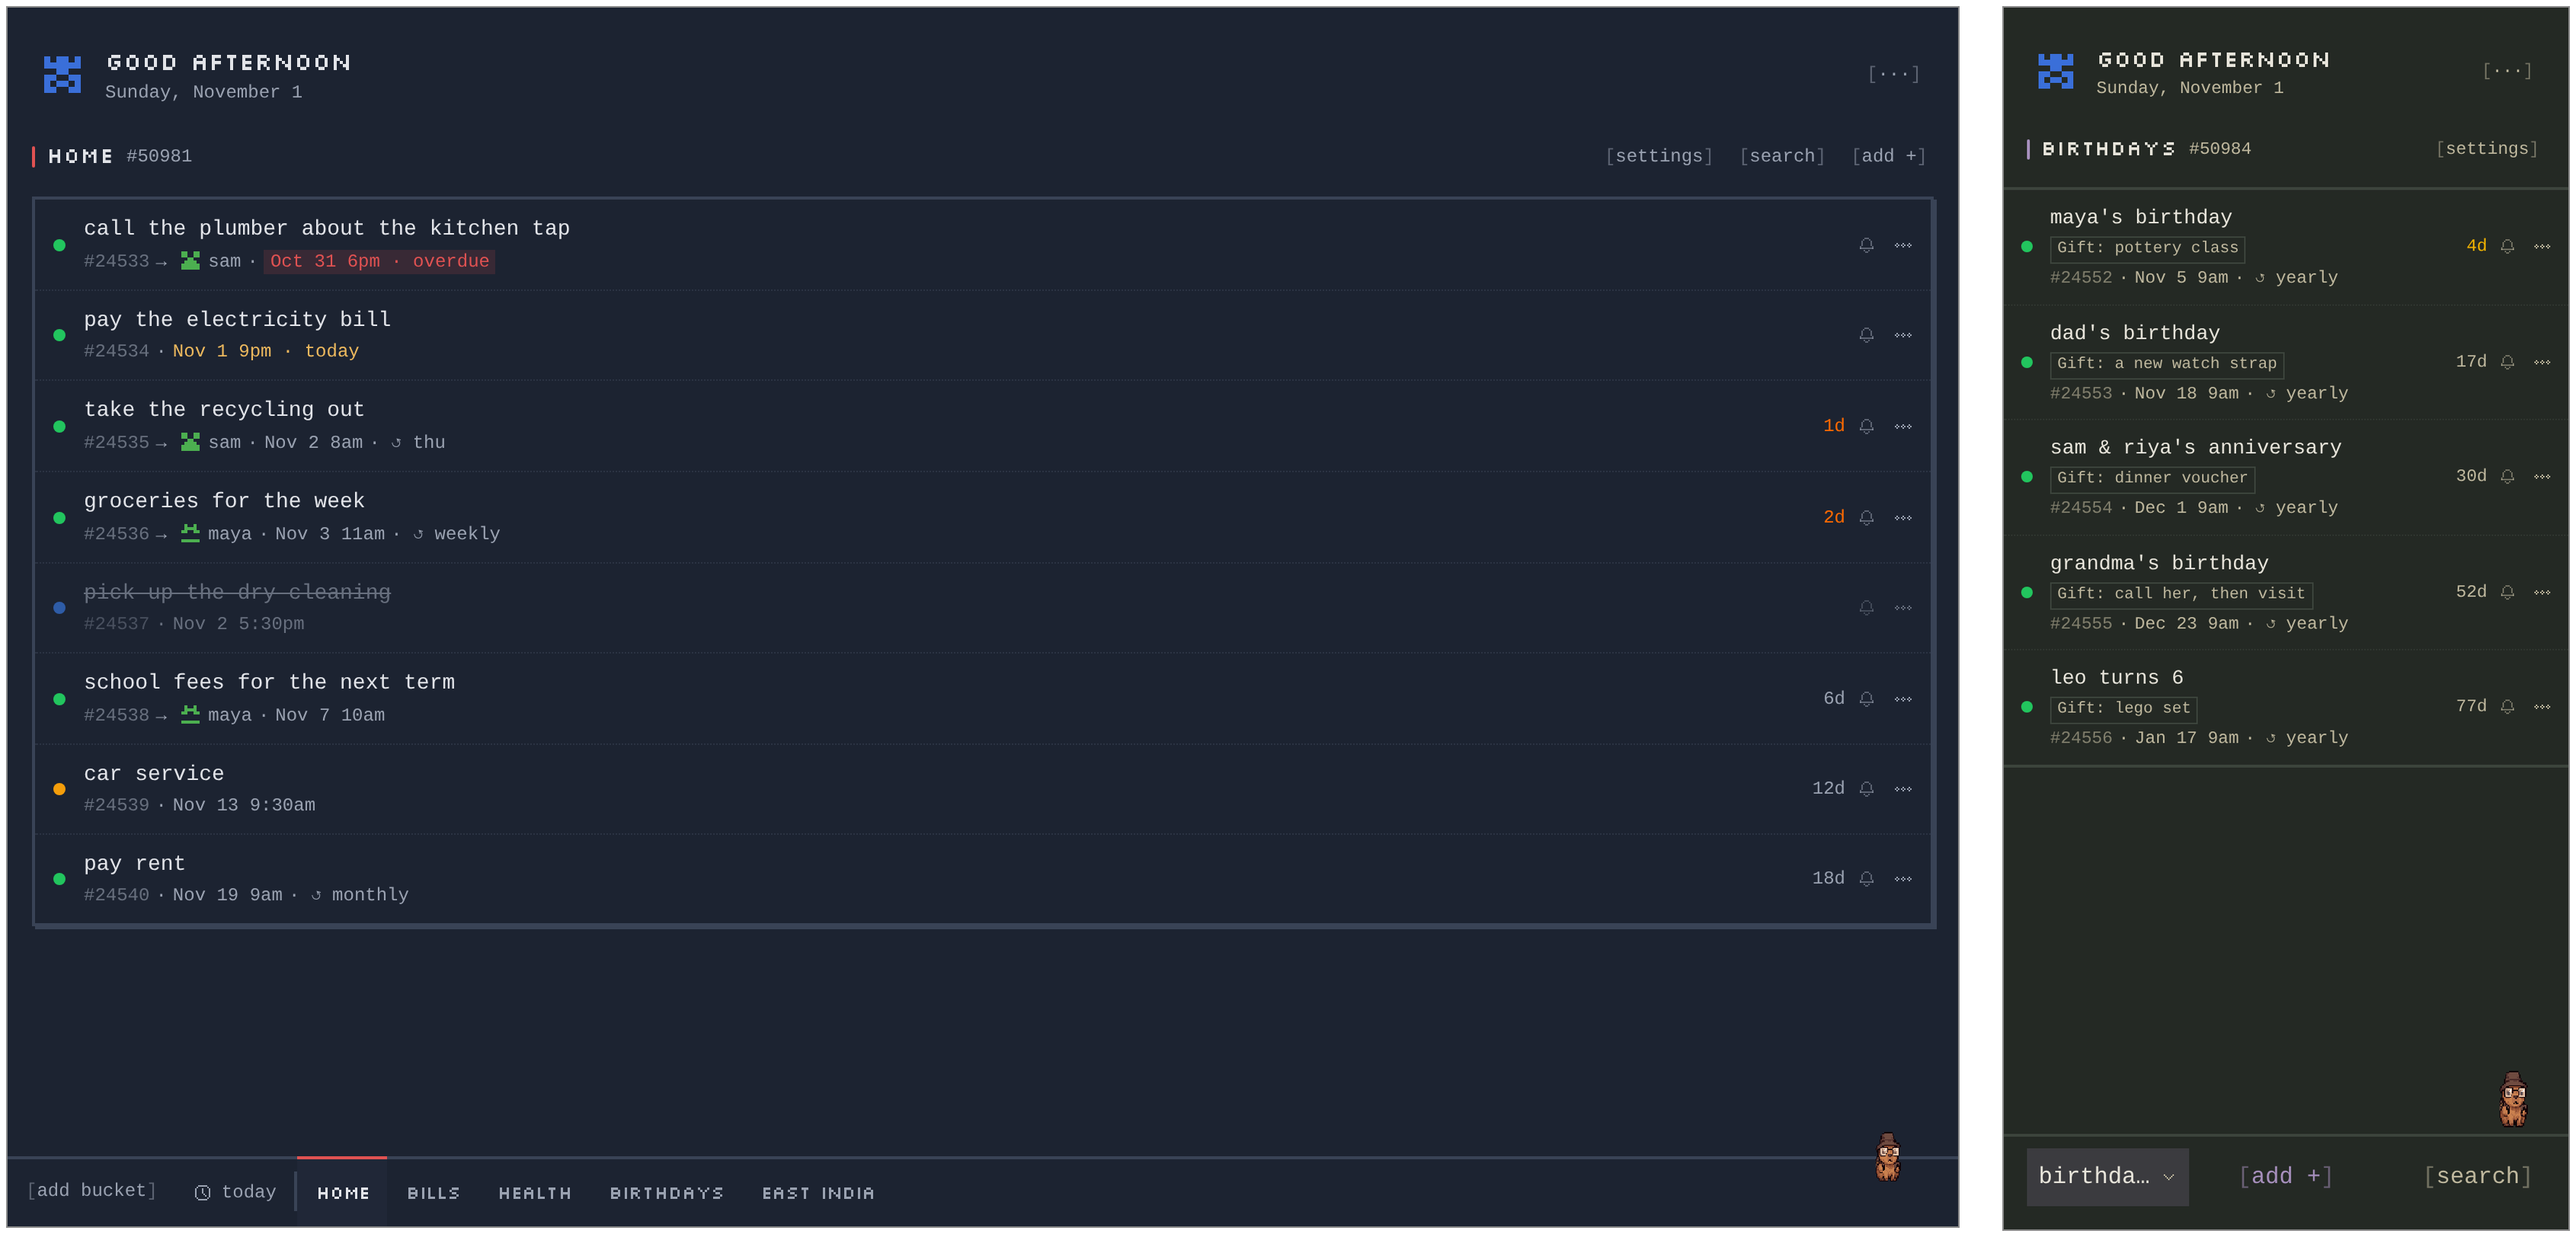
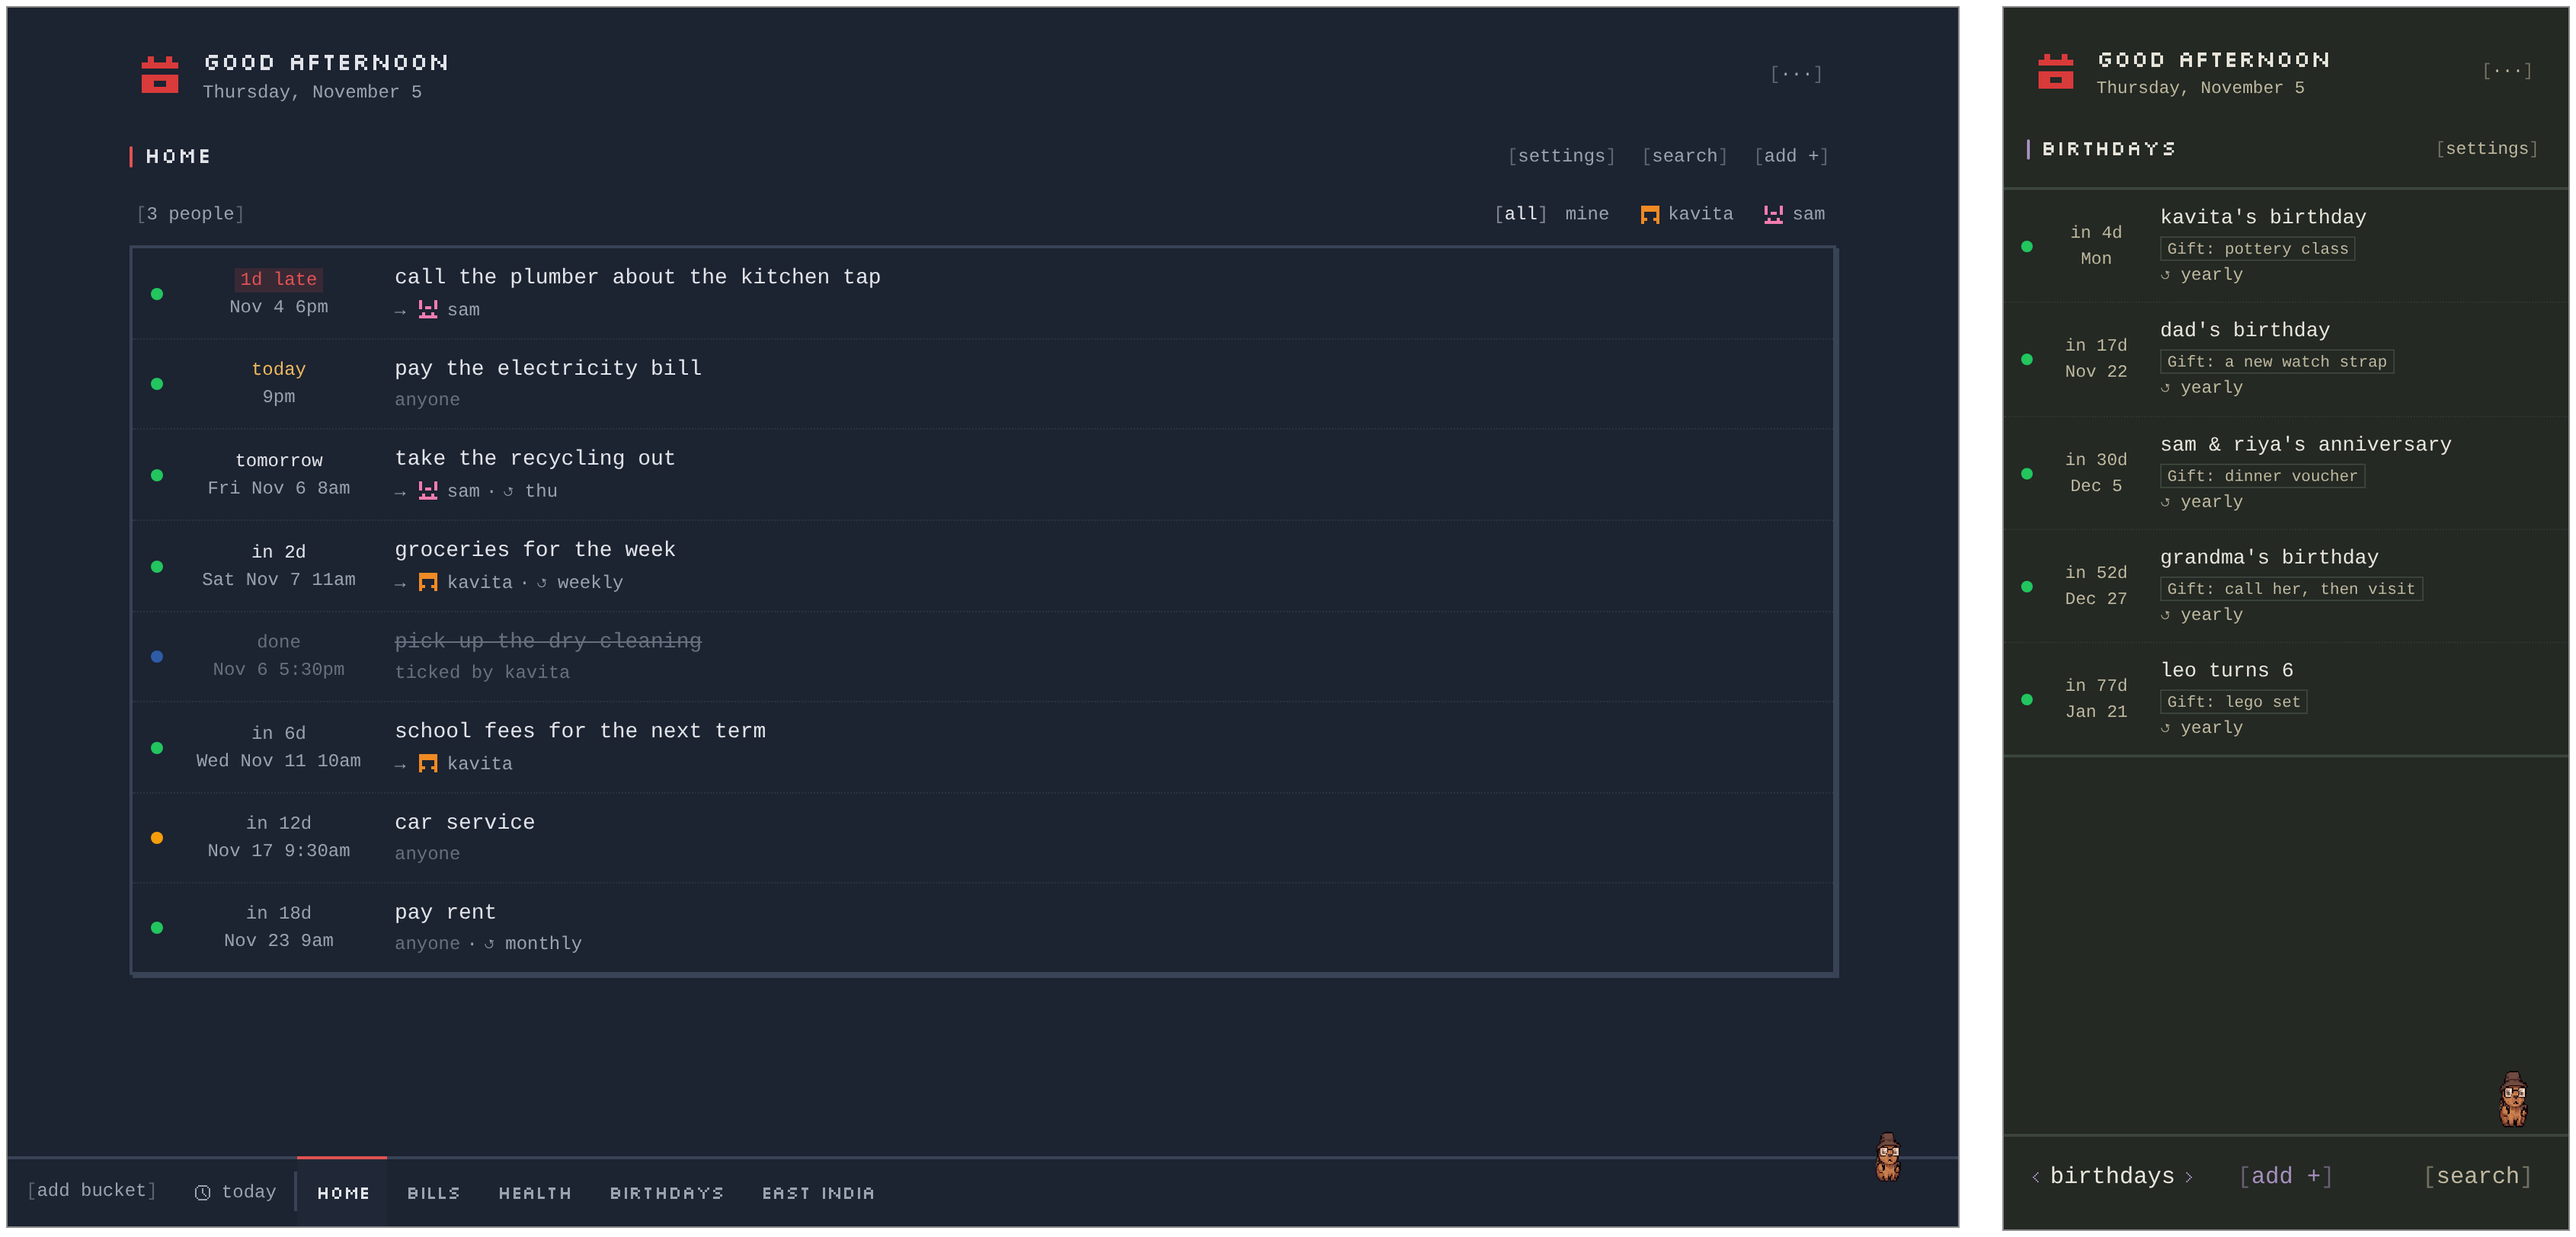
chore: readme gif and screenshots for 0.9.0

diff --git a/src/components/buckets/BucketsShell.tsx b/src/components/buckets/BucketsShell.tsx
@@ -1,6 +1,7 @@
 "use client";
 
-import { ChevronDown } from "pixelarticons/react/ChevronDown.js";
+import { ChevronLeft } from "pixelarticons/react/ChevronLeft.js";
+import { ChevronRight } from "pixelarticons/react/ChevronRight.js";
 import { Clock } from "pixelarticons/react/Clock.js";
 import { PixelIcon } from "@/components/ui/PixelIcon";
 import { useEffect, useRef, useState, useSyncExternalStore } from "react";
@@ -121,6 +122,7 @@ export function BucketsShell({ buckets: rawBuckets, focusBucketId = null }: Buck
   const activeIndex = buckets.findIndex((b) => b.id === activeId);
   const accentColor = BUCKET_PALETTE[Math.max(activeIndex, 0) % BUCKET_PALETTE.length];
   const placeColor = todayOpen ? "var(--foreground)" : accentColor;
+  const place = todayOpen ? 0 : activeIndex + 1;
 
   if (!activeBucket) return null;
 
@@ -175,9 +177,9 @@ export function BucketsShell({ buckets: rawBuckets, focusBucketId = null }: Buck
         <div className="grid grid-cols-[minmax(0,1fr)_auto_minmax(0,1fr)] items-stretch pb-[max(0.5rem,env(safe-area-inset-bottom))] md:hidden">
           <BucketSwitcher
             count={buckets.length + 1}
-            index={todayOpen ? 0 : activeIndex + 1}
-            onGo={(place) => {
-              const bucket = buckets[place - 1];
+            index={place}
+            onGo={(next) => {
+              const bucket = buckets[next - 1];
               if (bucket) setActiveBucketId(bucket.id);
               else openToday();
             }}
@@ -185,8 +187,12 @@ export function BucketsShell({ buckets: rawBuckets, focusBucketId = null }: Buck
           >
             <span
               style={{ backgroundColor: `color-mix(in oklab, ${placeColor} 18%, transparent)` }}
-              className="flex h-10 max-w-28 min-w-0 items-center gap-1 px-2"
+              className="flex h-10 max-w-32 min-w-0 items-center gap-1 px-1"
             >
+              <PixelIcon
+                icon={ChevronLeft}
+                className={cn("text-muted-foreground shrink-0", place === 0 && "opacity-25")}
+              />
               {todayOpen && <PixelIcon icon={Clock} className="shrink-0" />}
               <span className="text-foreground truncate font-mono text-base">
                 {todayOpen
@@ -195,7 +201,13 @@ export function BucketsShell({ buckets: rawBuckets, focusBucketId = null }: Buck
                     ? `${activeBucket.icon} ${activeBucket.name}`
                     : activeBucket.name}
               </span>
-              <PixelIcon icon={ChevronDown} className="text-muted-foreground shrink-0" />
+              <PixelIcon
+                icon={ChevronRight}
+                className={cn(
+                  "text-muted-foreground shrink-0",
+                  place === buckets.length && "opacity-25"
+                )}
+              />
             </span>
           </BucketSwitcher>
           <div className="flex justify-center">

diff --git a/src/components/buckets/BucketContent.tsx b/src/components/buckets/BucketContent.tsx
@@ -82,7 +82,6 @@ export function BucketContent({ bucket, accentColor, addItemRef }: BucketContent
           <span className="font-pixel min-w-0 truncate overflow-hidden text-sm leading-snug">
             {bucket.icon ? `${bucket.icon} ${bucket.name}` : bucket.name}
           </span>
-          <span className="text-muted-foreground shrink-0 font-mono text-xs">#{bucket.id}</span>
         </div>
         <div className="flex items-center gap-2">
           <BracketButton onClick={() => setSettingsTab("items")} className="px-1 py-1.5">

diff --git a/README.md b/README.md
@@ -35,7 +35,7 @@
 </p>
 
 <p align="center">
-  <img src=".github/assets/screenshots/shared-home.png" width="900" alt="a home bucket shared with family, chores assigned to maya and sam (tokyo night theme), next to a birthdays bucket with a gift idea for each on a phone (everforest theme)">
+  <img src=".github/assets/screenshots/shared-home.png" width="900" alt="a home bucket shared with family, chores assigned to kavita and sam, done items saying who ticked them (tokyo night theme), next to a birthdays bucket with a gift idea for each on a phone (everforest theme)">
 </p>
 
 <p align="center">
